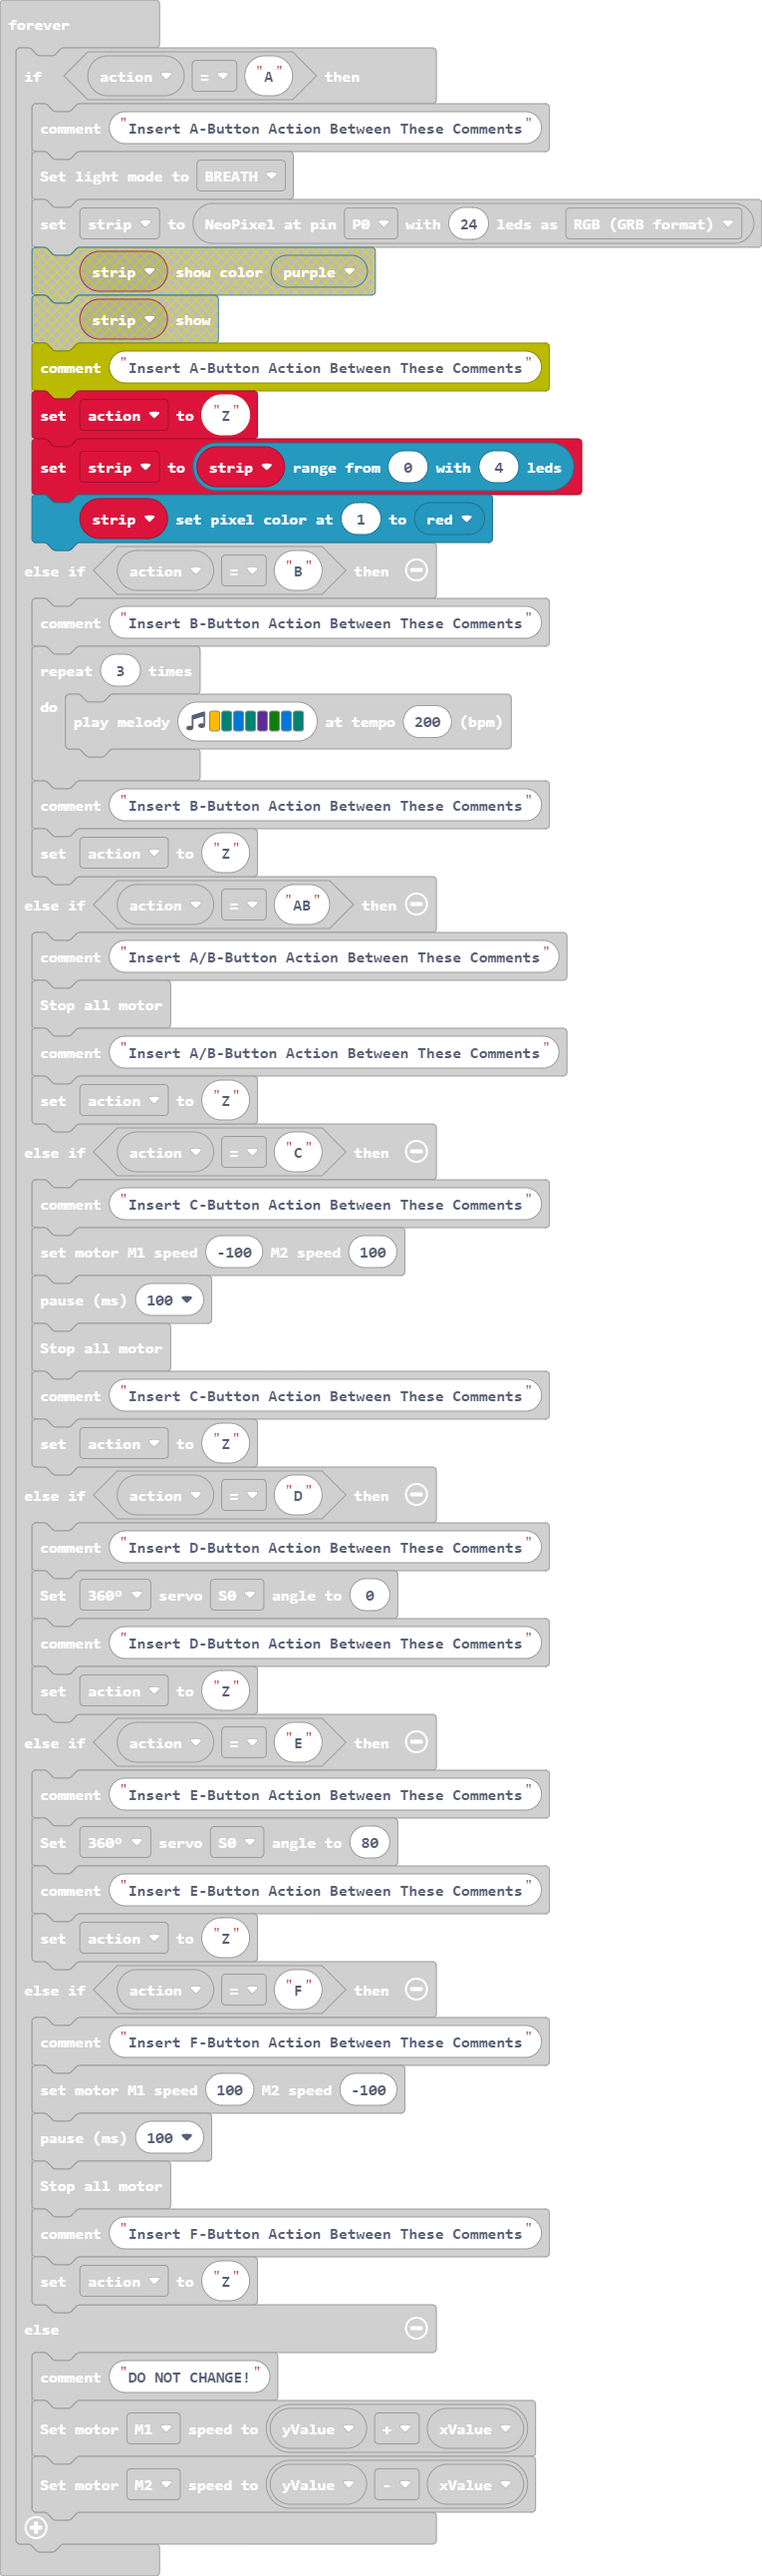
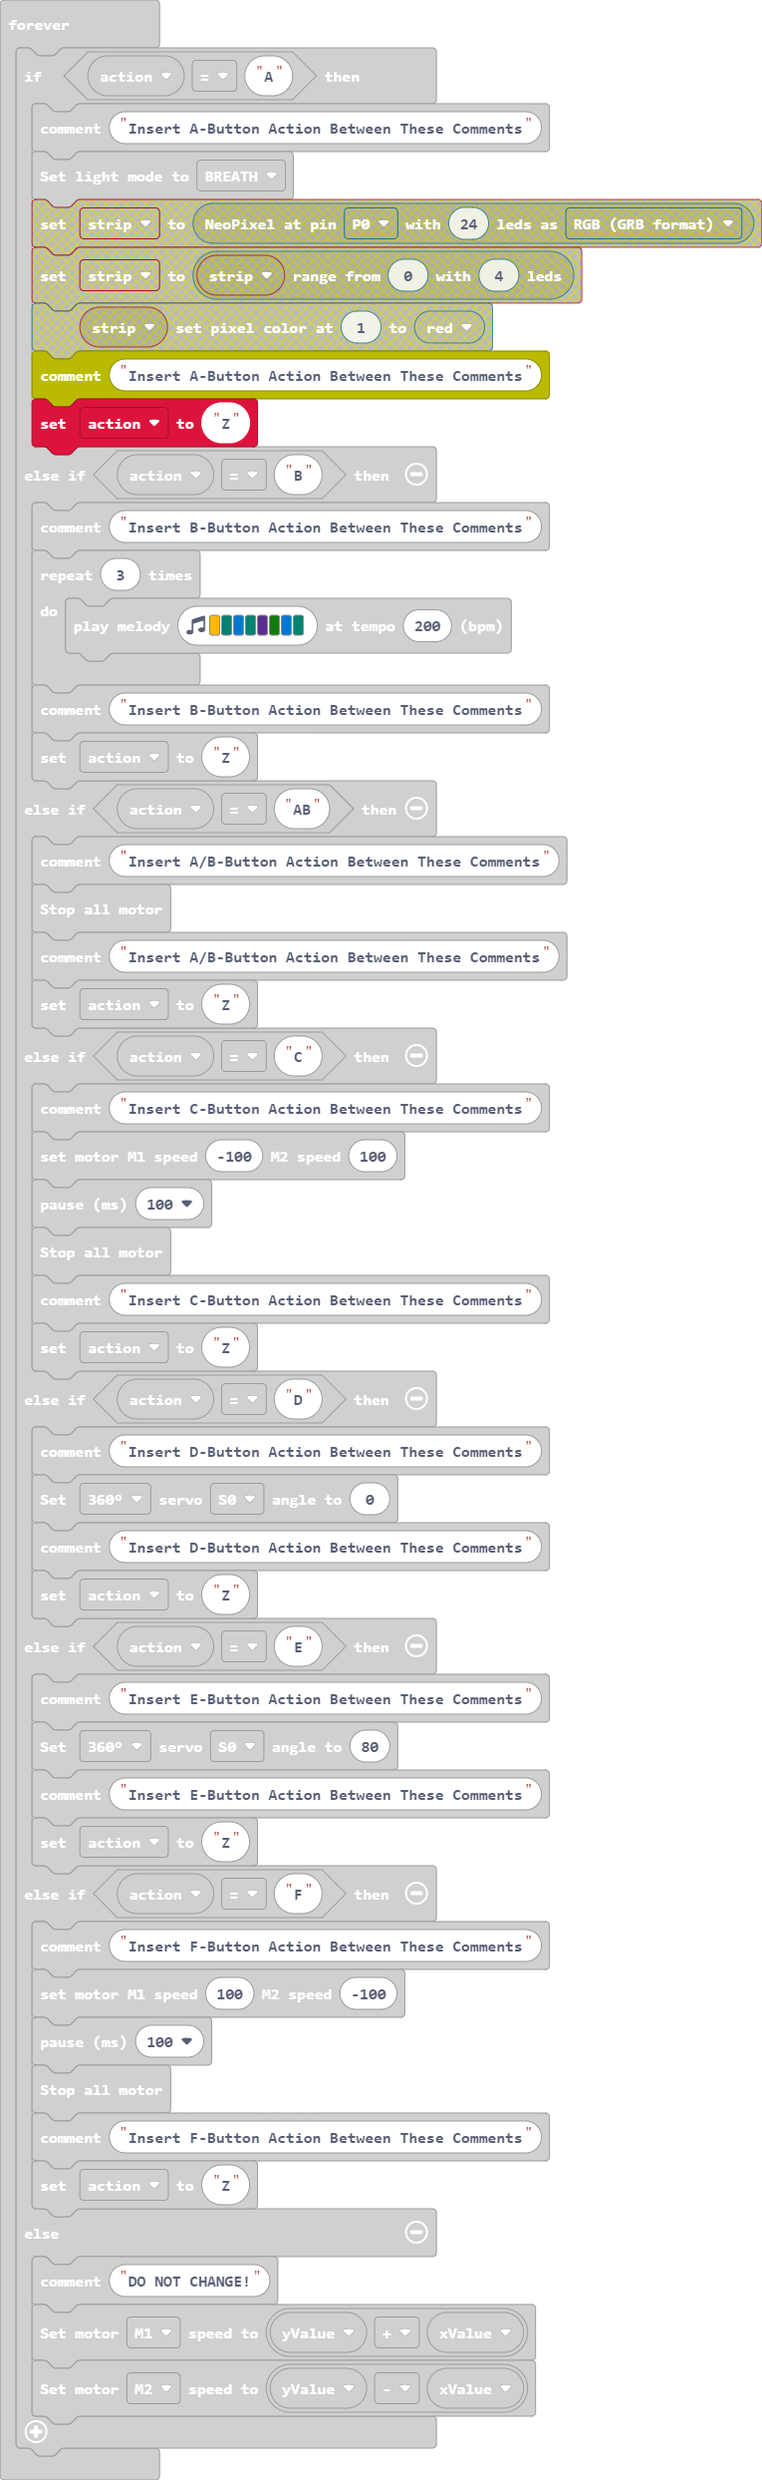
Update main.blocks, main.ts

diff --git a/main.ts b/main.ts
@@ -28,7 +28,6 @@ radio.onReceivedValue(function (name, value) {
         action = "F"
     }
 })
-let strip: neopixel.Strip = null
 let action = ""
 let yValue = 0
 let xValue = 0
@@ -40,9 +39,6 @@ basic.forever(function () {
     if (action == "A") {
         comment.comment("Insert A-Button Action Between These Comments")
         wuKong.setLightMode(wuKong.LightMode.BREATH)
-        strip = neopixel.create(DigitalPin.P0, 24, NeoPixelMode.RGB)
-        strip = strip.range(0, 4)
-        strip.setPixelColor(1, neopixel.colors(NeoPixelColors.Red))
         comment.comment("Insert A-Button Action Between These Comments")
         action = "Z"
     } else if (action == "B") {
